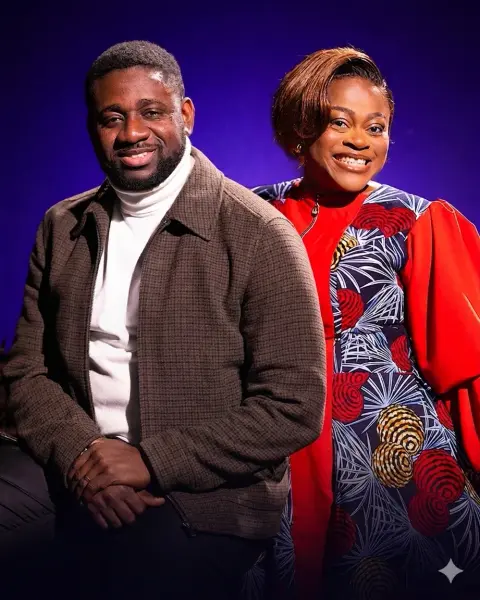
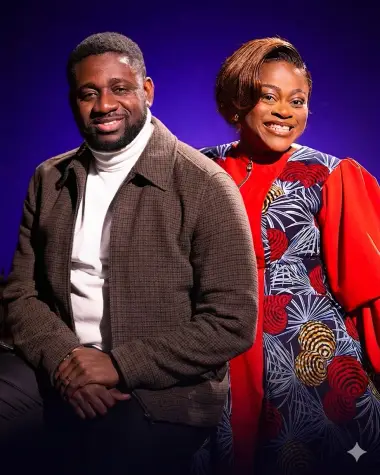
perf(a-propos): optimize images to WebP, add lazy loading, explicit dimensions, and LCP preload

diff --git a/inertia/pages/a-propos.tsx b/inertia/pages/a-propos.tsx
@@ -50,7 +50,6 @@ export default function About() {
           name="description"
           content="Découvrez l'histoire, la vision, la mission et les valeurs fondamentales de la Phila Maison de Témoignages (MDT)."
         />
-        <link rel="preload" as="image" href="/about-mdt.webp" type="image/webp" fetchPriority="high" />
       </Head>
       <main>
         <HeroAbout />
@@ -360,7 +359,7 @@ export default function About() {
                     <Eye size={28} />
                   </div>
                   <h3 className="text-2xl font-black font-serif mb-4">Notre Vision</h3>
-                  <p className="text-white/85 leading-relaxed">
+                  <p className="text-white font-medium leading-relaxed">
                     Voir des vies brisées transformées en témoignages vivants par la puissance de
                     Dieu, et que ces témoignages deviennent une lumière pour Kinshasa, la RDC et les
                     nations.

diff --git a/inertia/pages/home.tsx b/inertia/pages/home.tsx
@@ -404,7 +404,6 @@ const Home: FC<{
           name="description"
           content="Bienvenue à la Phila Maison de Témoignages (MDT), un lieu où Dieu transforme des vies en temoiganges vivants. Rejoignez-nous pour nos cultes, nos enseignements et partagez notre communion fraternelle."
         />
-        <link rel="preload" as="image" href="/mdt-banner.webp" type="image/webp" fetchPriority="high" />
       </Head>
 
       {/* Hero Section */}
